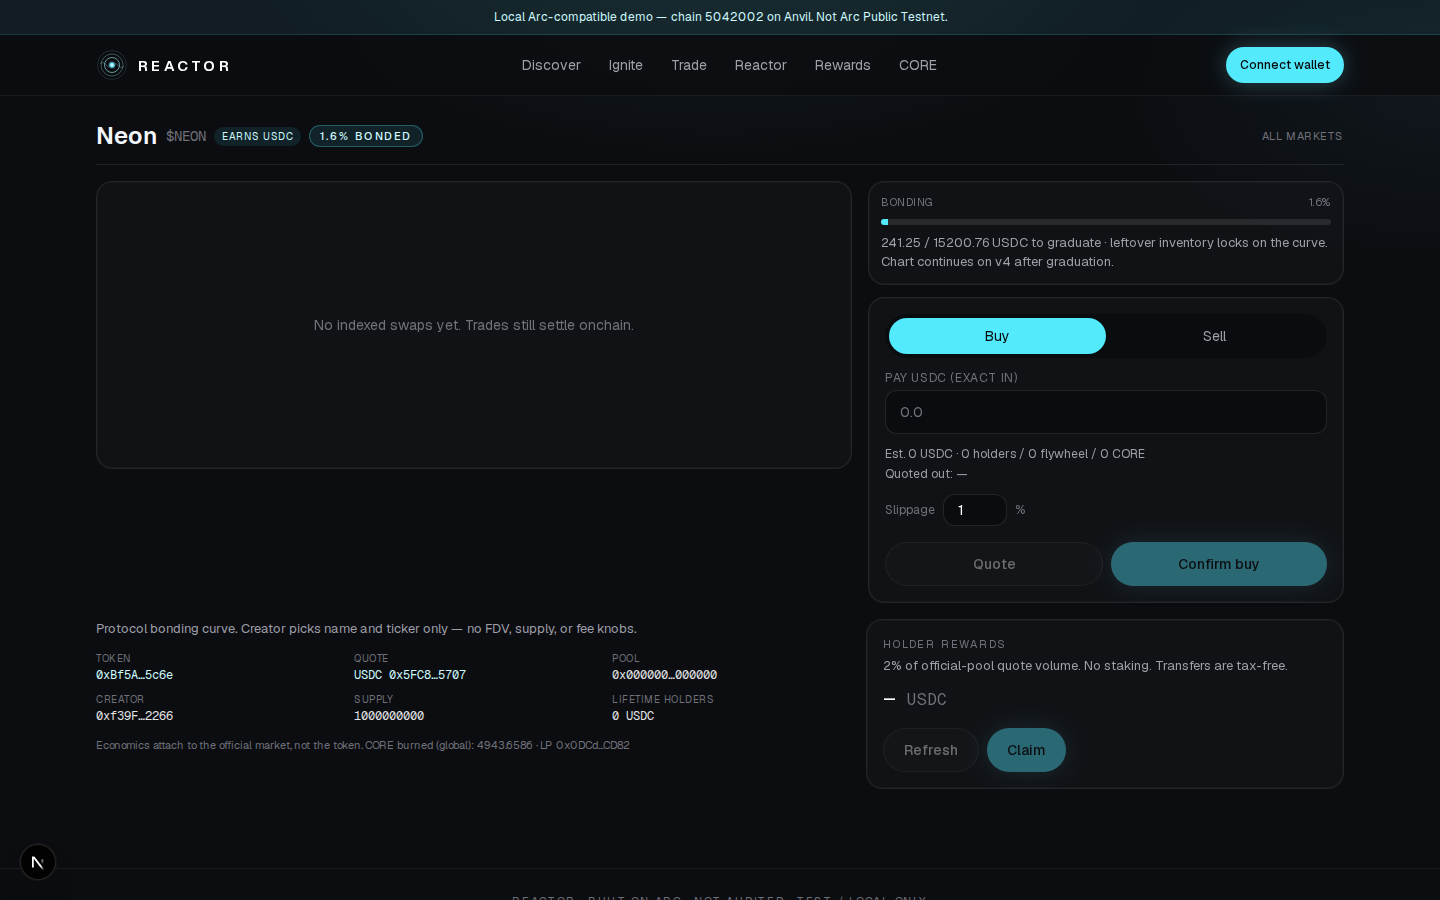
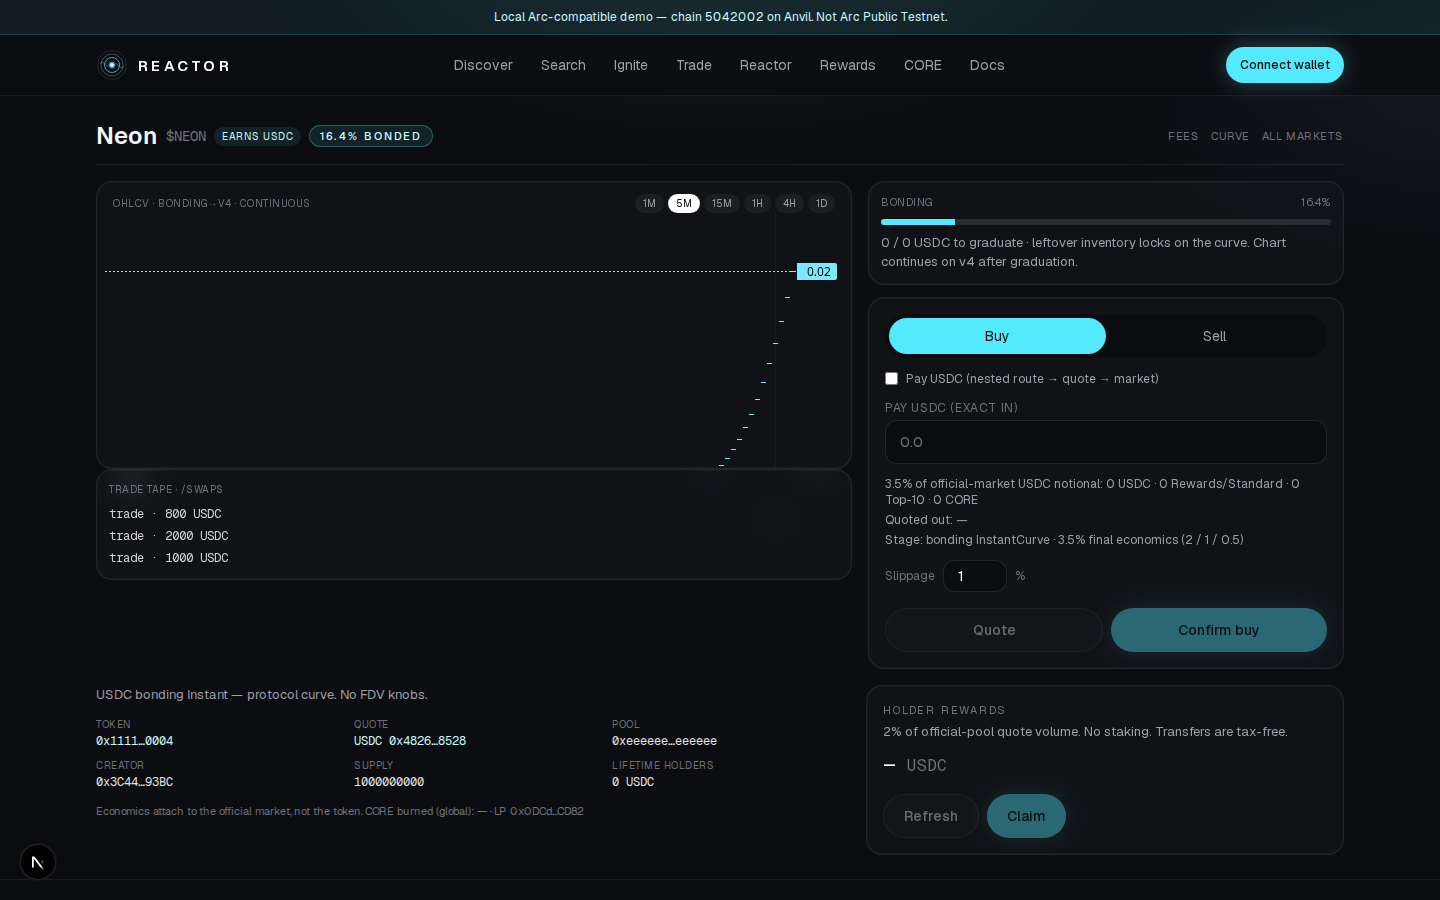
Prove nested quotes without intermediate balances; refresh review shots
UserRouteQuoter executes hops in-place so PreviewRoute keeps intermediate quote.
Foundry: 326 passed. Factory V1 still 23,286. Screenshots include Neon bonding at 1440 and 390.

diff --git a/BUILD_REPORT.md b/BUILD_REPORT.md
@@ -11,7 +11,7 @@
 | Protocol release | **0.3.1** (`docs/version.json`) |
 | Factory | **V1** (`FACTORY_VERSION = 1`, immutable) |
 | Intent | Close honest leftovers: Safe Builder JSON, quoter state overrides, production hard gates, funding-parent, sharp, Arc blocker, CoreToken/USDC-18 leftovers |
-| Foundry | Recorded after `forge test` this run |
+| Foundry | **326 passed**, 1 skipped (parent 0.3.0 recorded 325) |
 | Indexer / lib | `pnpm --filter indexer test` + web top10/marketdata + `pnpm docs:check` |
 | Review shots | Regenerated `review/*-{1440,390}.png` this commit including bonding token (`BONDING_TOKEN` + seed) |
 | Mainnet | **Blocked** |
@@ -45,8 +45,12 @@ Measured with `forge build --sizes` + `pnpm size:guard` (limit 24,576 − 1,024 
 
 | Contract | Runtime (bytes) | Gate |
 | --- | ---: | --- |
-| ReactorFactory | (see `deployments/sizes.json`) | ≤ 23,552 |
-| InstantLaunchModule / InstantCurve / ReactorHook / TickerRegistry / UserRouteQuoter | under EIP-170 | n/a |
+| ReactorFactory | **23,286** | ≤ 23,552 **pass** (unchanged from 0.3.0) |
+| InstantLaunchModule | 17,092 | under EIP-170 |
+| InstantCurve | 18,960 | under |
+| ReactorHook | 10,952 | under |
+| TickerRegistry | 4,827 | under |
+| UserRouteQuoter | **7,783** | smaller than 0.3.0 (8,559) — hops run in-place, no nested revert |
 
 ## Honest gaps that remain (not leftovers we pretended to close)
 

diff --git a/review/VISUAL_NOTES.md b/review/VISUAL_NOTES.md
@@ -1,13 +1,11 @@
-# Visual notes — current UI (2026-09-11)
+# Visual notes — current UI (2026-09-12)
 
-Recaptured at 1440 and 390 against live Anvil 5042002. No review-fixture FDV slider.
+Recaptured at 1440 and 390 against current UI (`CAPTURE=1`, `BONDING_TOKEN=0x1111…0004` Neon, `NEXT_PUBLIC_REVIEW_FIXTURES=1`). No review-fixture FDV slider.
 
 | Surface | Notes |
 | --- | --- |
-| Home | Neon bonding row from chain. Empty-state copy gone. |
+| Home | Choose-what-your-token-earns. Fixture board when indexer empty. |
 | Launch | Compact Instant form. No range / Starting FDV control. Protocol owns FDV. |
-| CORE | Genesis copy, vesting T0, burned via `burn()`. |
-| THE REACTOR | Offchain ranks / not a trustless oracle. Fail-closed with no $250k names. |
-| Bonding token | `/token/0xBf5A…` Neon ~1.6% bonded. No FDV knobs. |
-
-Stale `instant-*.png` / fixture `token-*.png` removed.
+| Bonding token | `/token/0x1111…0004` Neon bonding terminal. No FDV knobs. |
+| CORE | Genesis copy. Never Top-10. |
+| THE REACTOR | Offchain ranks / not a trustless oracle. |

diff --git a/docs/quoting.md b/docs/quoting.md
@@ -1,6 +1,6 @@
 # Atomic route quoter
 
-User quotes are a **single `eth_call`** over the whole route (`UserRouteQuoter.previewBuy` / `previewSell`) with **ERC-20 state overrides** that credit the quoter (not the user wallet) on candidate `balanceOf` slots. Nested hops do **not** need intermediate wallet balances. The user can hold only USDC.
+User quotes are a **single `eth_call`** over the whole route (`UserRouteQuoter.previewBuy` / `previewSell`). The quoter **executes hops in-place** (no nested revert that would undo intermediate balances) and then reverts `PreviewRoute`. The indexer also sends ERC-20 **state overrides** that credit the quoter — not the user wallet — on candidate `balanceOf` slots. Nested hops do **not** need intermediate wallet balances. The user can hold only USDC.
 
 ## What is simulated
 
